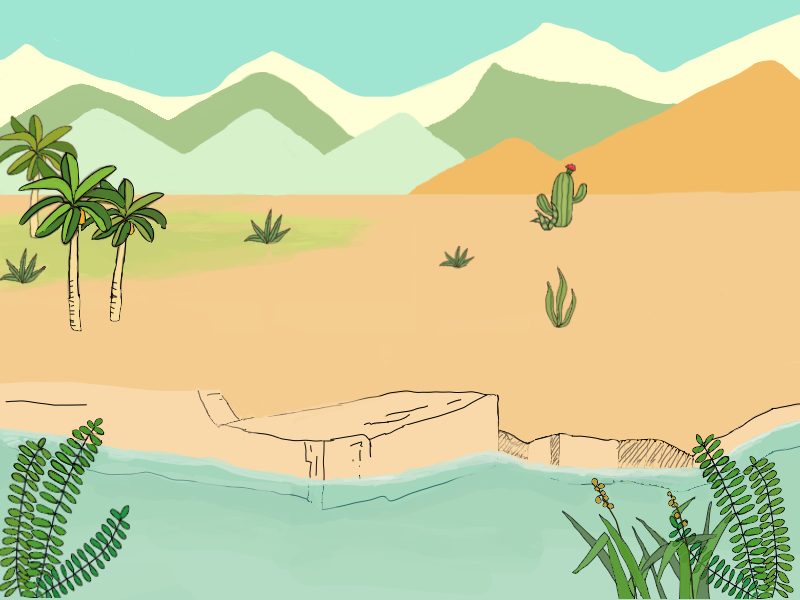
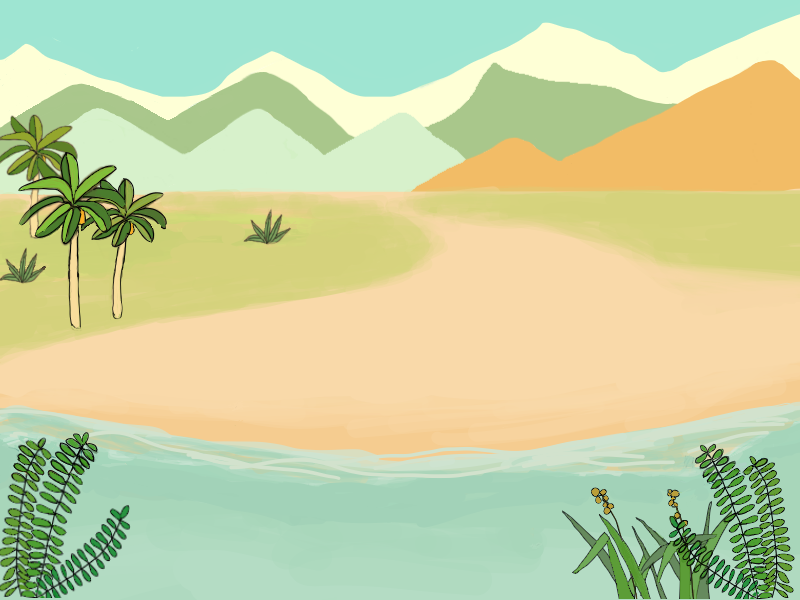
css hawai

Changed region(s): [[0.0, 0.27, 1.0, 0.96], [0.0, 0.33, 0.0625, 0.36]]

diff --git a/stylesheet.css b/stylesheet.css
@@ -149,14 +149,14 @@ background-size: contain;
 .spot4:after {
   content: '';
   display: block;
-  background-image: url('./image/leftrock.png');
+  background-image: url('./image/ttle.png');
   background-repeat: no-repeat;
   position: absolute;
-  width: 100%;
-  height: 100%;
+  width: 60%;
+  height: 60%;
   z-index: 2;
-  bottom: -25%;
-  left: -15%;
+  bottom: -2%;
+  left: 5%;
   background-size: contain;
   }
 
@@ -184,7 +184,7 @@ background-size: contain;
   left: 55%;
   width: 130%;
   height: 130%;
-  bottom: 7%;
+  bottom: -3%;
   background-size: contain;
 }
 /* 7 top or tight */

diff --git a/script.js b/script.js
@@ -73,8 +73,8 @@ function startGame() {
     countdown -= 1;
     countDownBoard.textContent = countdown;
     if (countdown === 0) {
-      clearInterval(startCountdown);
       gameOver() 
+      clearInterval(startCountdown);
     }
   }, 1000)
 }
